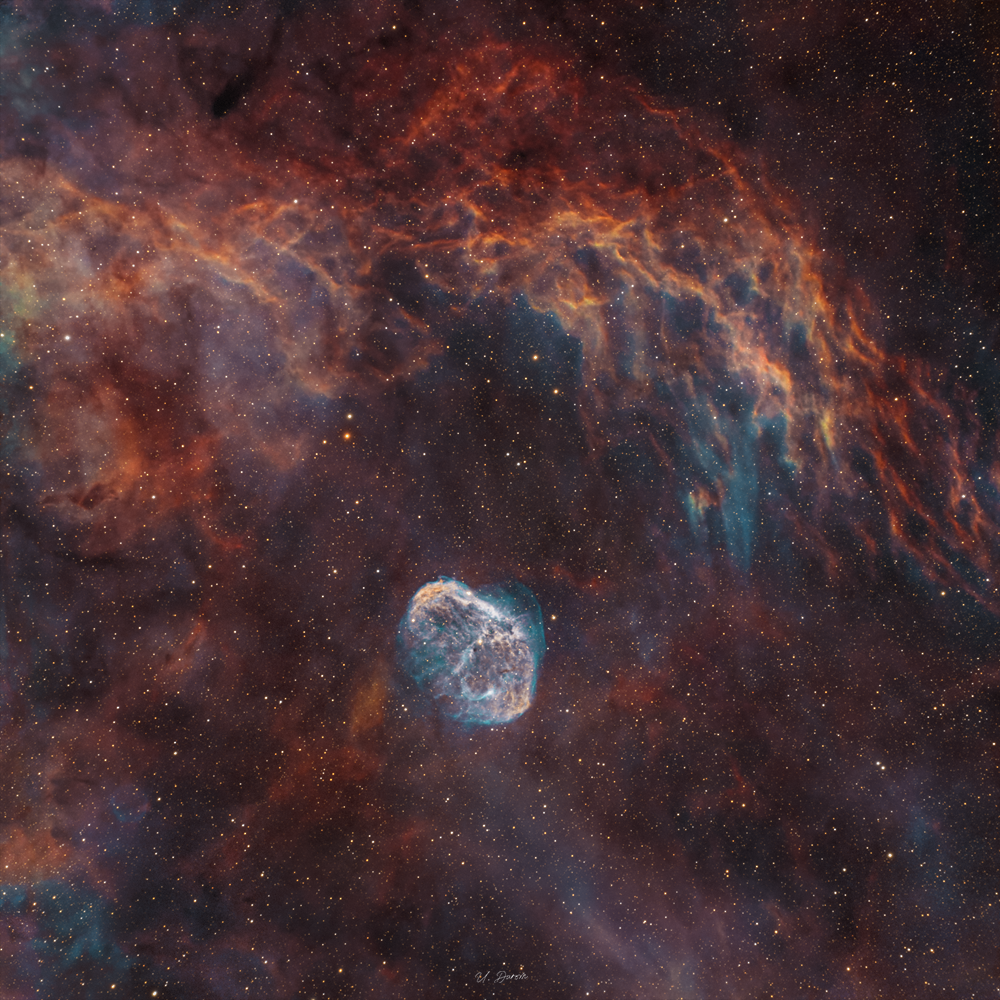
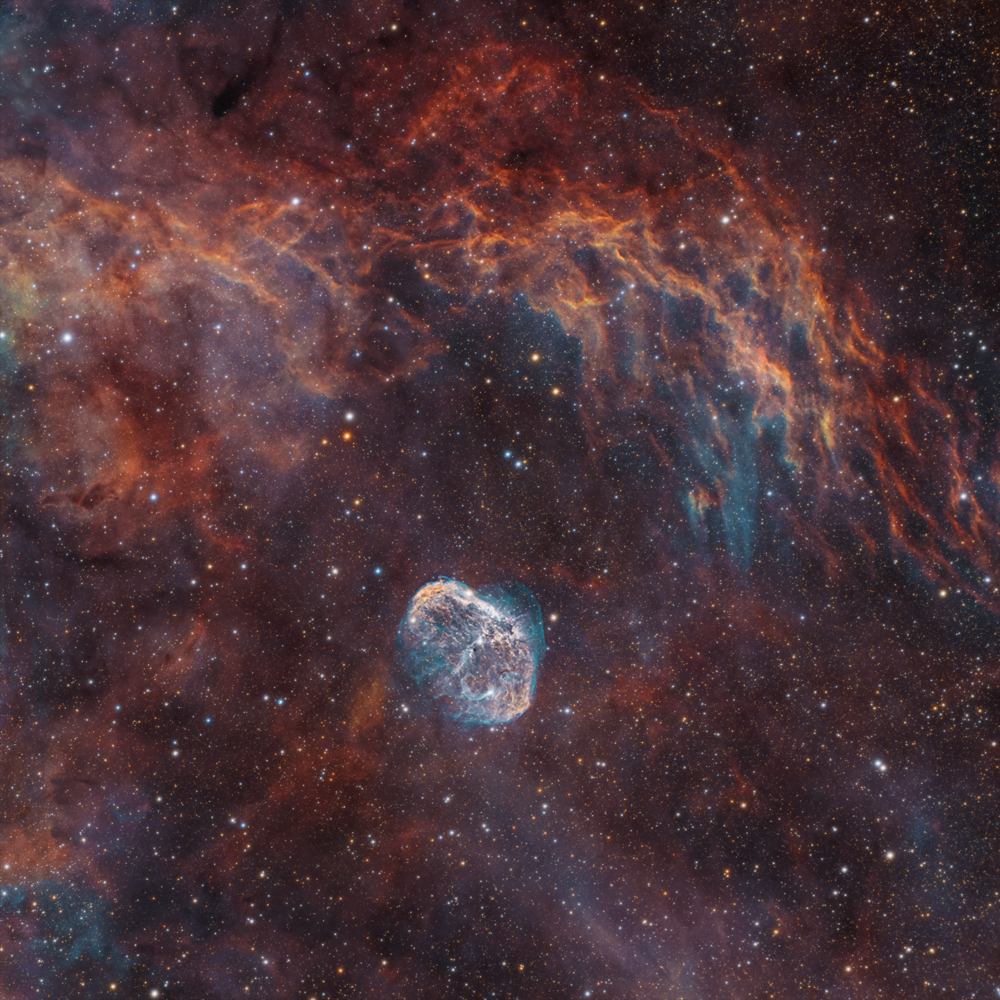
Updated images and added broadband NGC7000

diff --git a/index.html b/index.html
@@ -26,19 +26,19 @@
 			</div>
 			<div class="column1">
 				<div class="wrapper">
-				<a href="images/full/Lagoon.png"> <img src="images\preview\Lagoon.png" class="gallery__image"></a>
-					<div class="caption">The Lagoon and Trifid Nebulae</div>
+				<a href="images/full/NABB.png"> <img src="images\preview\NABB.png" class="gallery__image"></a>
+				<div class="caption">The North America Nebula in True Color</div>
 				</div>
 			</div>
 			<div class="column2">
 				<div class="wrapper">
-				<a href="images/full/B3.png"> <img src="images\preview\B3.png" class="gallery__image"></a>
-				<div class="caption">Barnard 3 and NGC1333</div>
+				<a href="images/full/Crescent.png"> <img src="images\preview\Crescent.png" class="gallery__image"></a>
+				<div class="caption">The Crescent Nebula</div>
 				</div>
 			</div>
 			<div class="column3">
 				<div class="wrapper">
-				<a href="images/full/VeilOSH.png"> <img src="images\preview\VeilOSH.png" class="gallery__image"></a>
+				<a href="images/full/Veil.png"> <img src="images\preview\Veil.png" class="gallery__image"></a>
 					<div class="caption">The Veil Supernova Remnant</div>
 				</div>
 			</div>
@@ -46,8 +46,8 @@
 
 		<div class="row2">
 			<div class="wrapper">
-				<a href="images/full/Crescent.png"> <img src="images\preview\Crescent.png" class="gallery__image"></a>
-				<div class="caption">The Crescent Nebula</div>
+				<a href="images/full/B3.png"> <img src="images\preview\B3.png" class="gallery__image"></a>
+				<div class="caption">Barnard 3 and NGC1333</div>
 			</div>
 			<div class="column1">
 				<div class="wrapper">
@@ -63,8 +63,8 @@
 			</div>
 			<div class="column3">
 				<div class="wrapper">
-				<a href="images/full/Eagle.png"> <img src="images\preview\Eagle.png" class="gallery__image"></a>
-				<div class="caption">The Eagle Nebula</div>
+				<a href="images/full/Lagoon.png"> <img src="images\preview\Lagoon.png" class="gallery__image"></a>
+					<div class="caption">The Lagoon and Trifid Nebulae</div>
 
 				</div>
 			</div>
